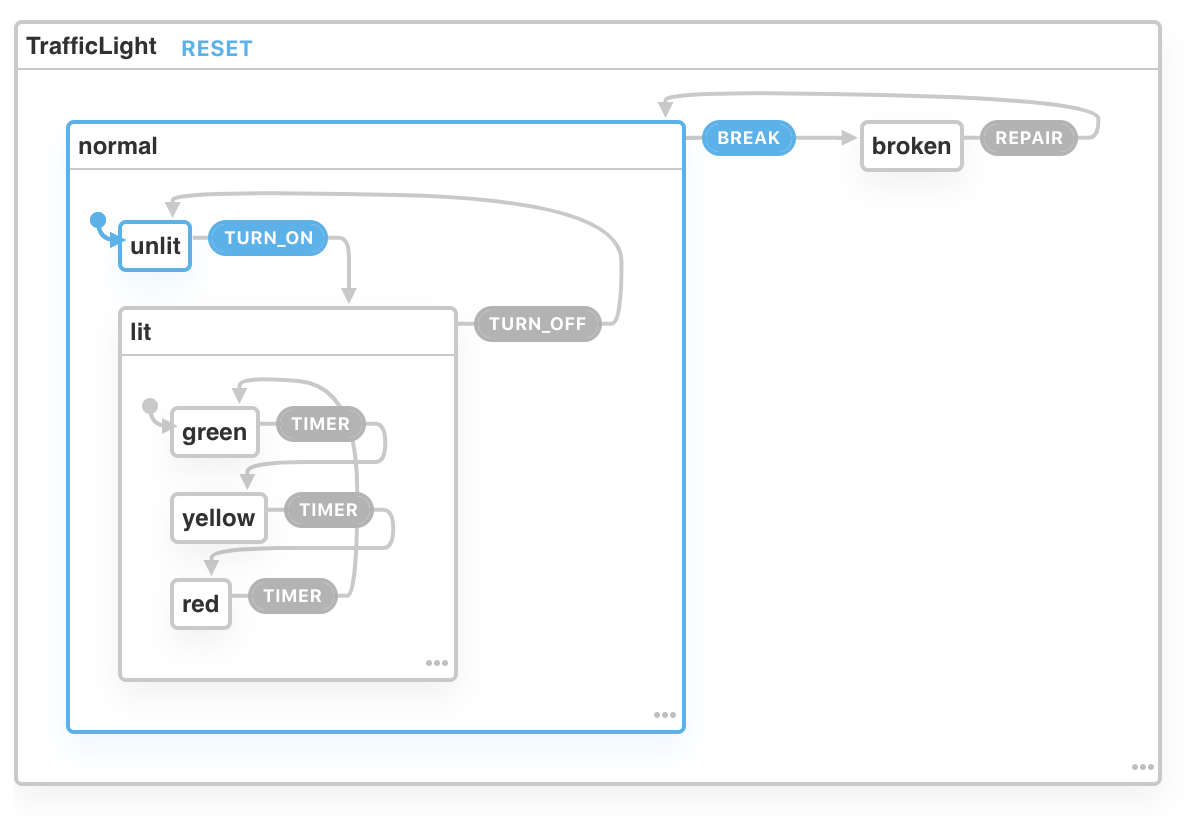
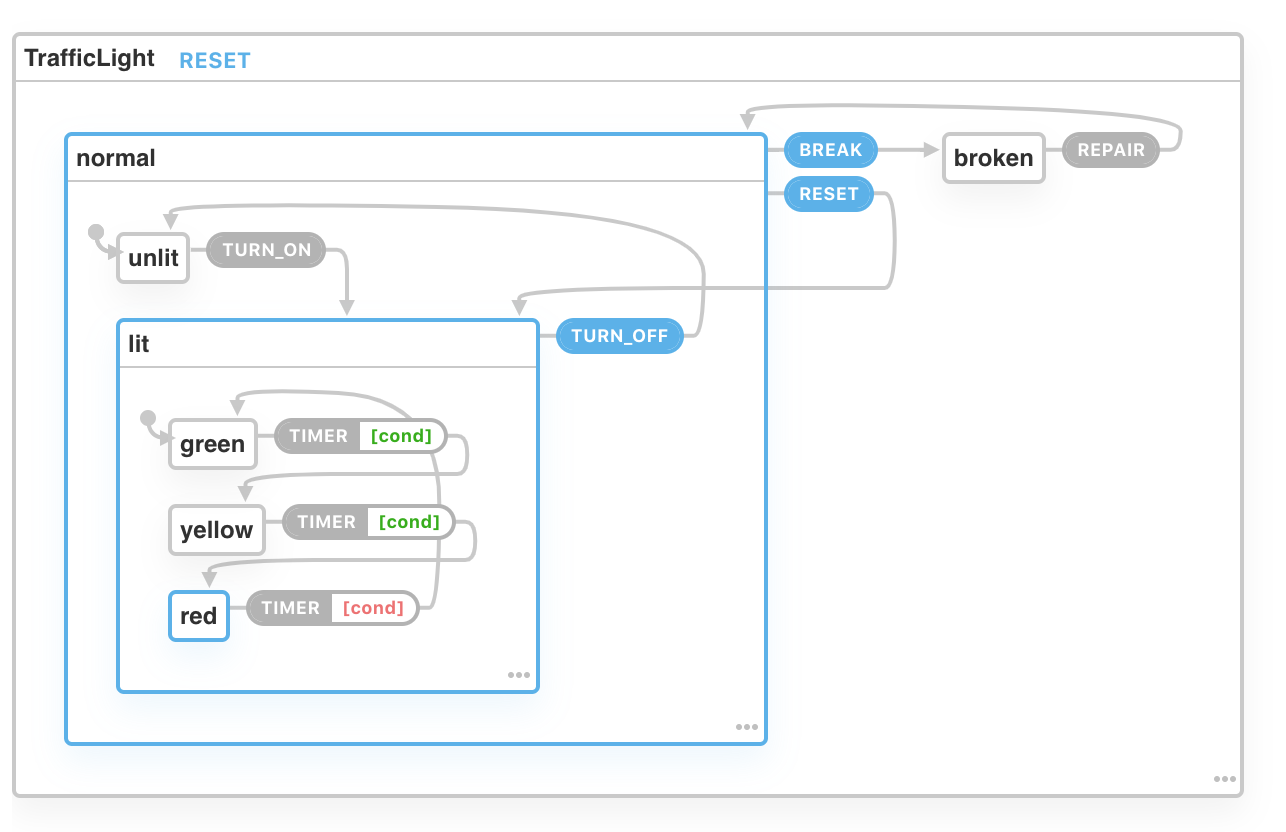
light

Changed region(s): [[0.0, 0.0, 0.99, 0.9804]]

diff --git a/traffic-light/README.md b/traffic-light/README.md
@@ -16,7 +16,8 @@ const TrafficLightMachine = Machine({
       id: "4270a101",
       initial: "unlit",
       on: {
-        BREAK: "broken"
+        BREAK: "broken",
+        RESET: "normal.lit"
       },
       states: {
         unlit: {
@@ -35,19 +36,29 @@ const TrafficLightMachine = Machine({
             green: {
               id: "1ecaaa9d",
               on: {
-                TIMER: "yellow"
+                TIMER: {
+                  target: "yellow",
+                  // Additional guard condition required
+                  cond: (_context, event) => event.elapsed >= 3 ? true : false
+                }
               }
             },
             yellow: {
               id: "e7da3afc",
               on: {
-                TIMER: "red"
+                TIMER: {
+                  target: "red", 
+                  cond: (_context, event) => event.elapsed >= 5 ? true : false
+                }
               }
             },
             red: {
               id: "4d4c91d2",
               on: {
-                TIMER: "green"
+                TIMER: {
+                  target: "green",
+                  cond: (_context, event) => event.elapsed >= 10 ? true : false
+                }
               }
             }
           }
